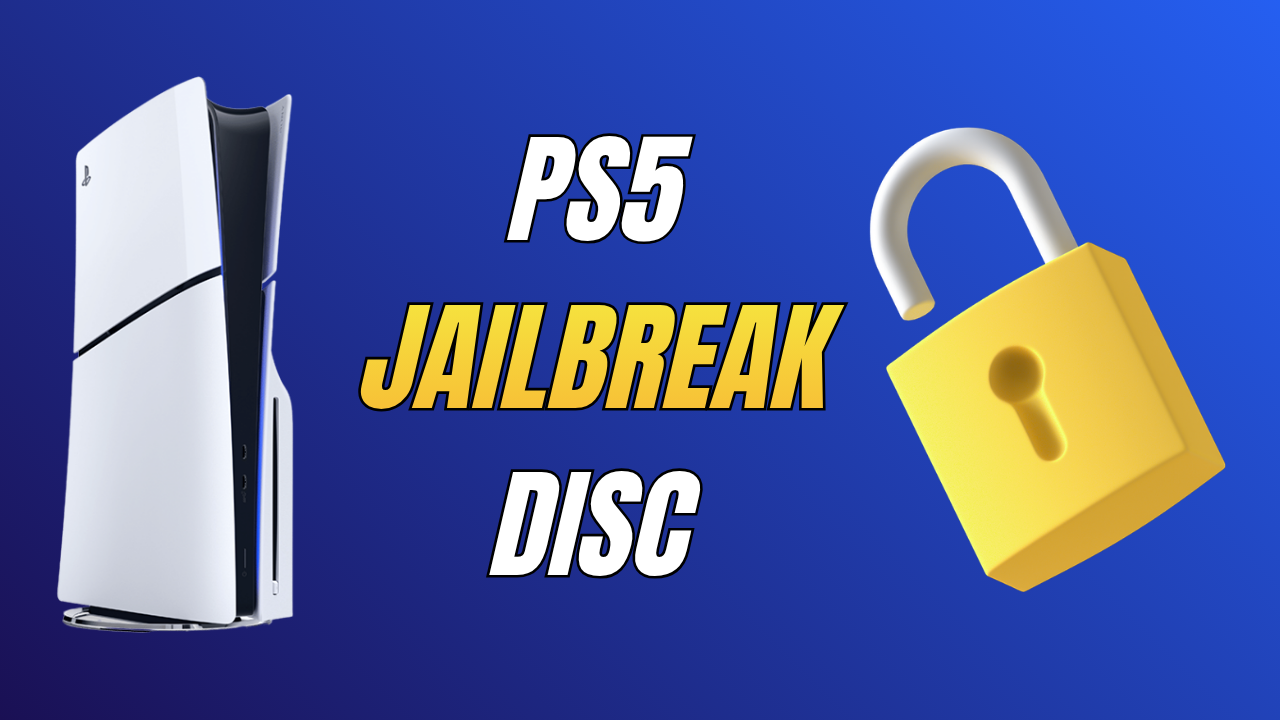
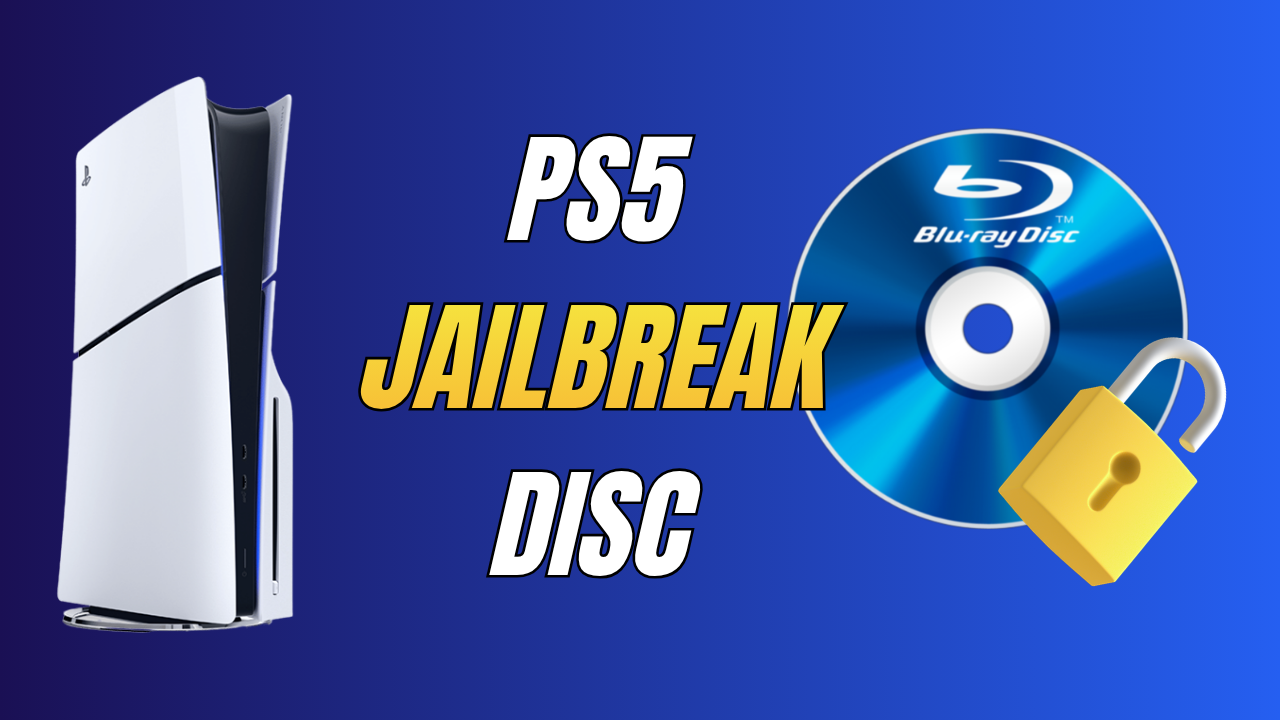
fix: Add better disc image

diff --git a/README.md b/README.md
@@ -1,6 +1,6 @@
 # BD-JB-Poops-Autoloader
 
-![PS5 Jailbreak](20260417165448.jpg)
+![PS5 Jailbreak](20260418130403.jpg)
 
 ## About this project
 
